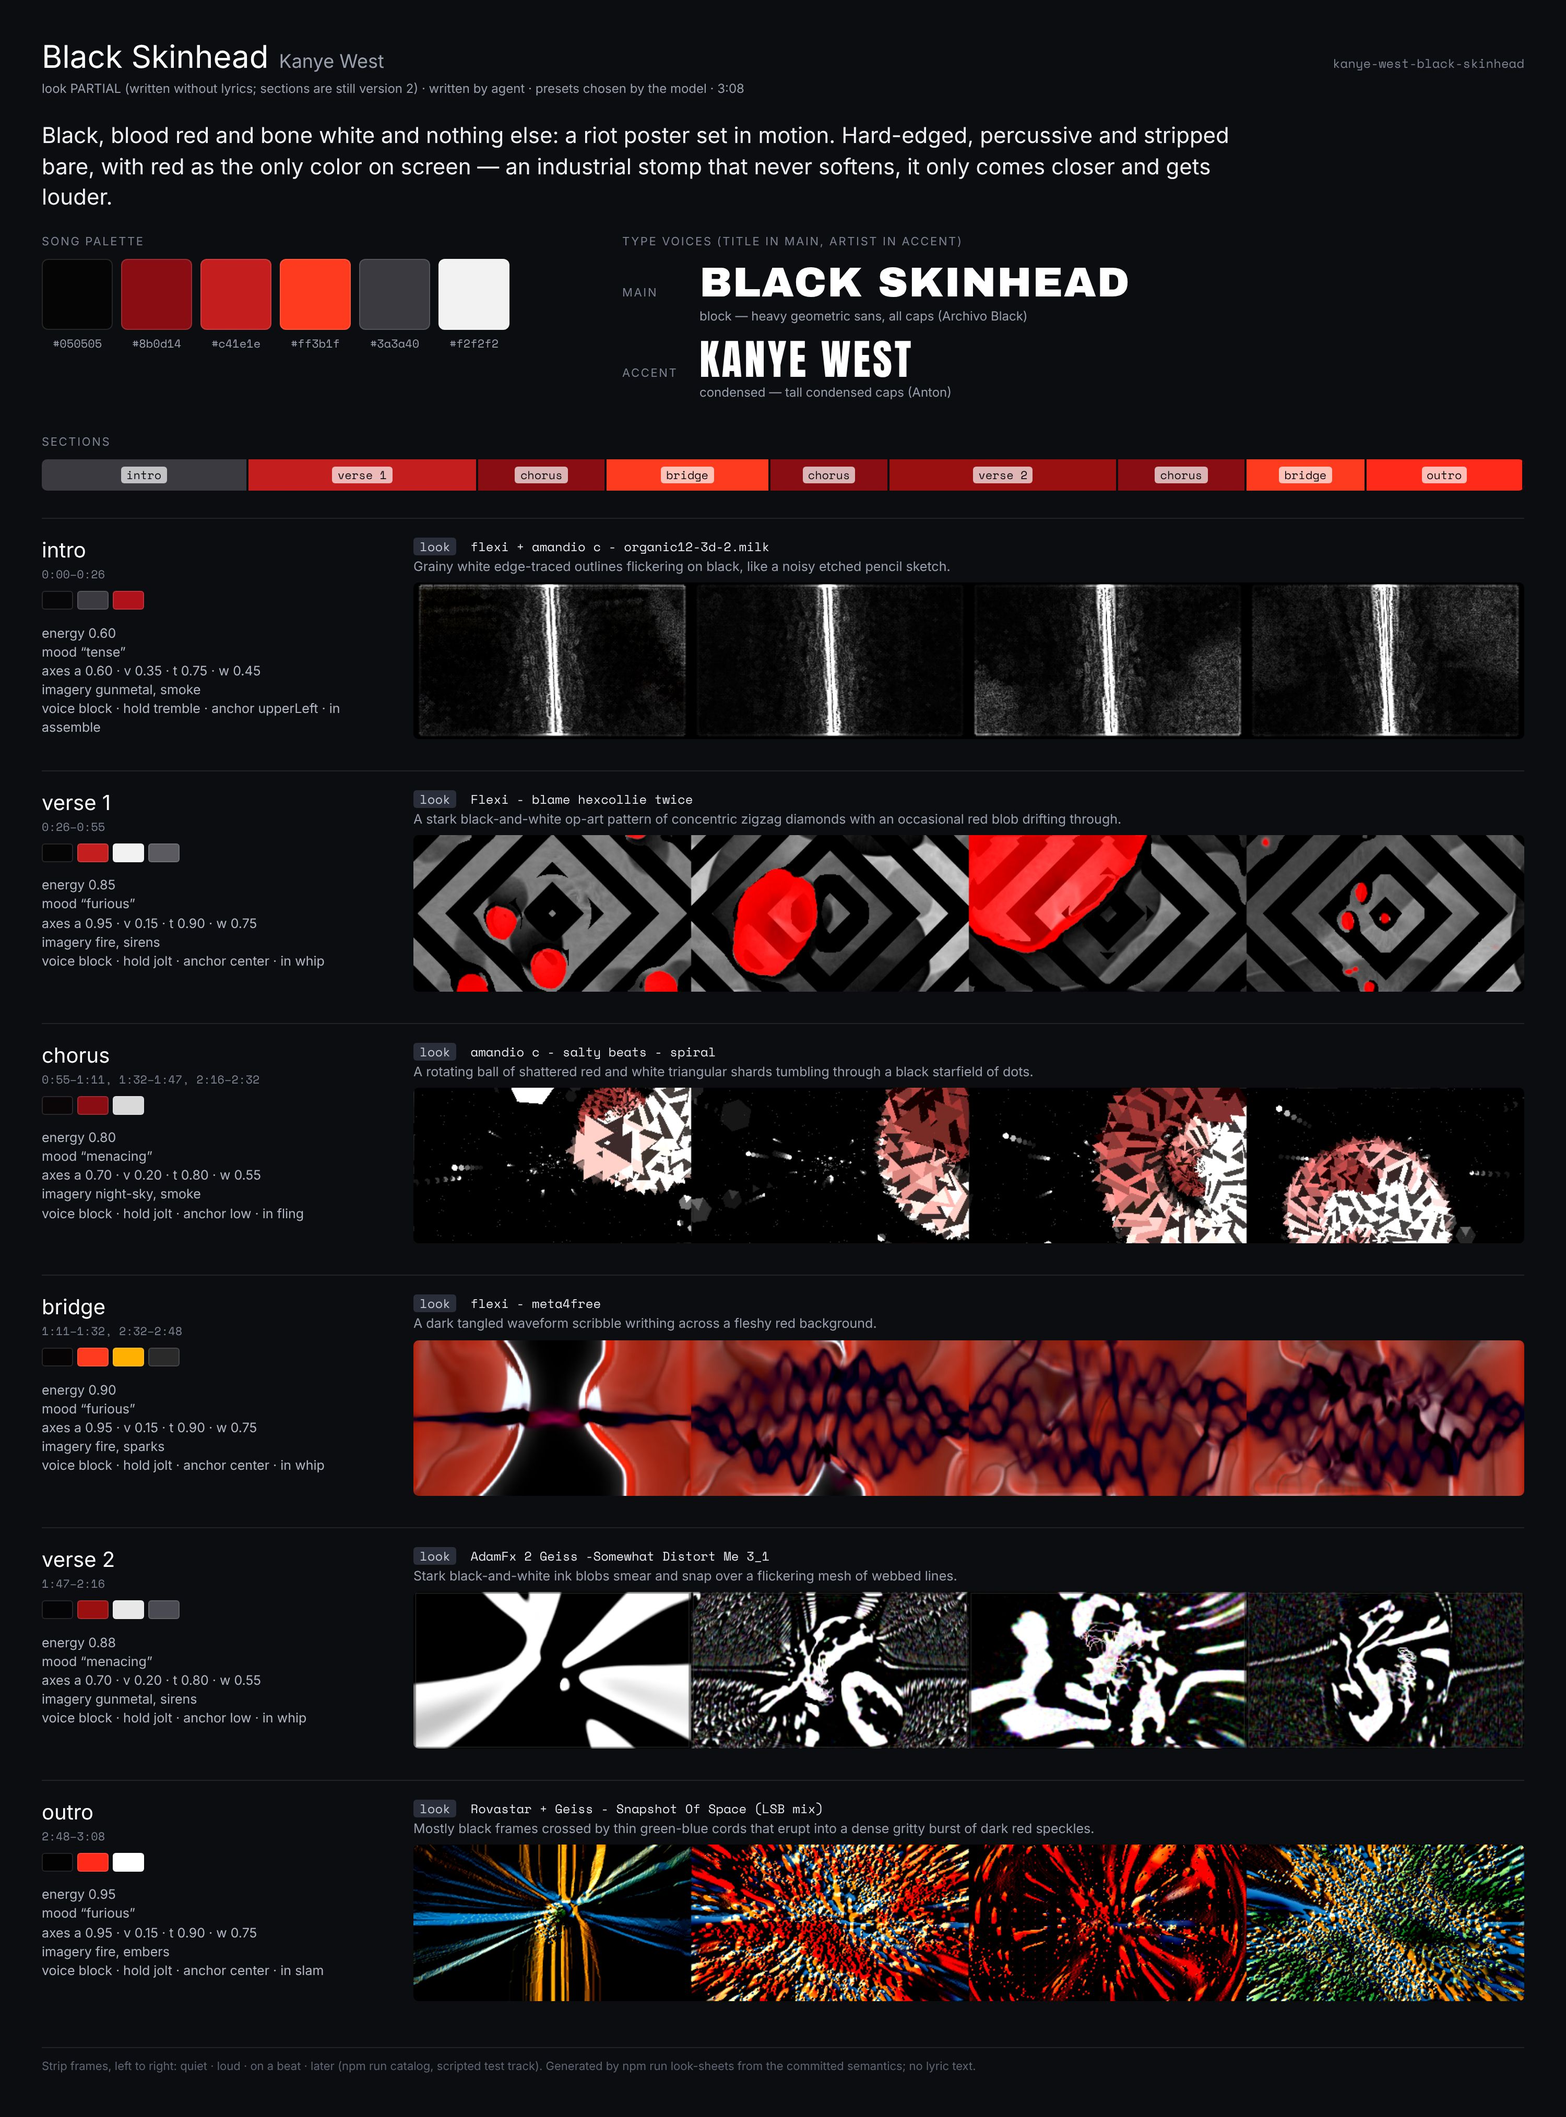
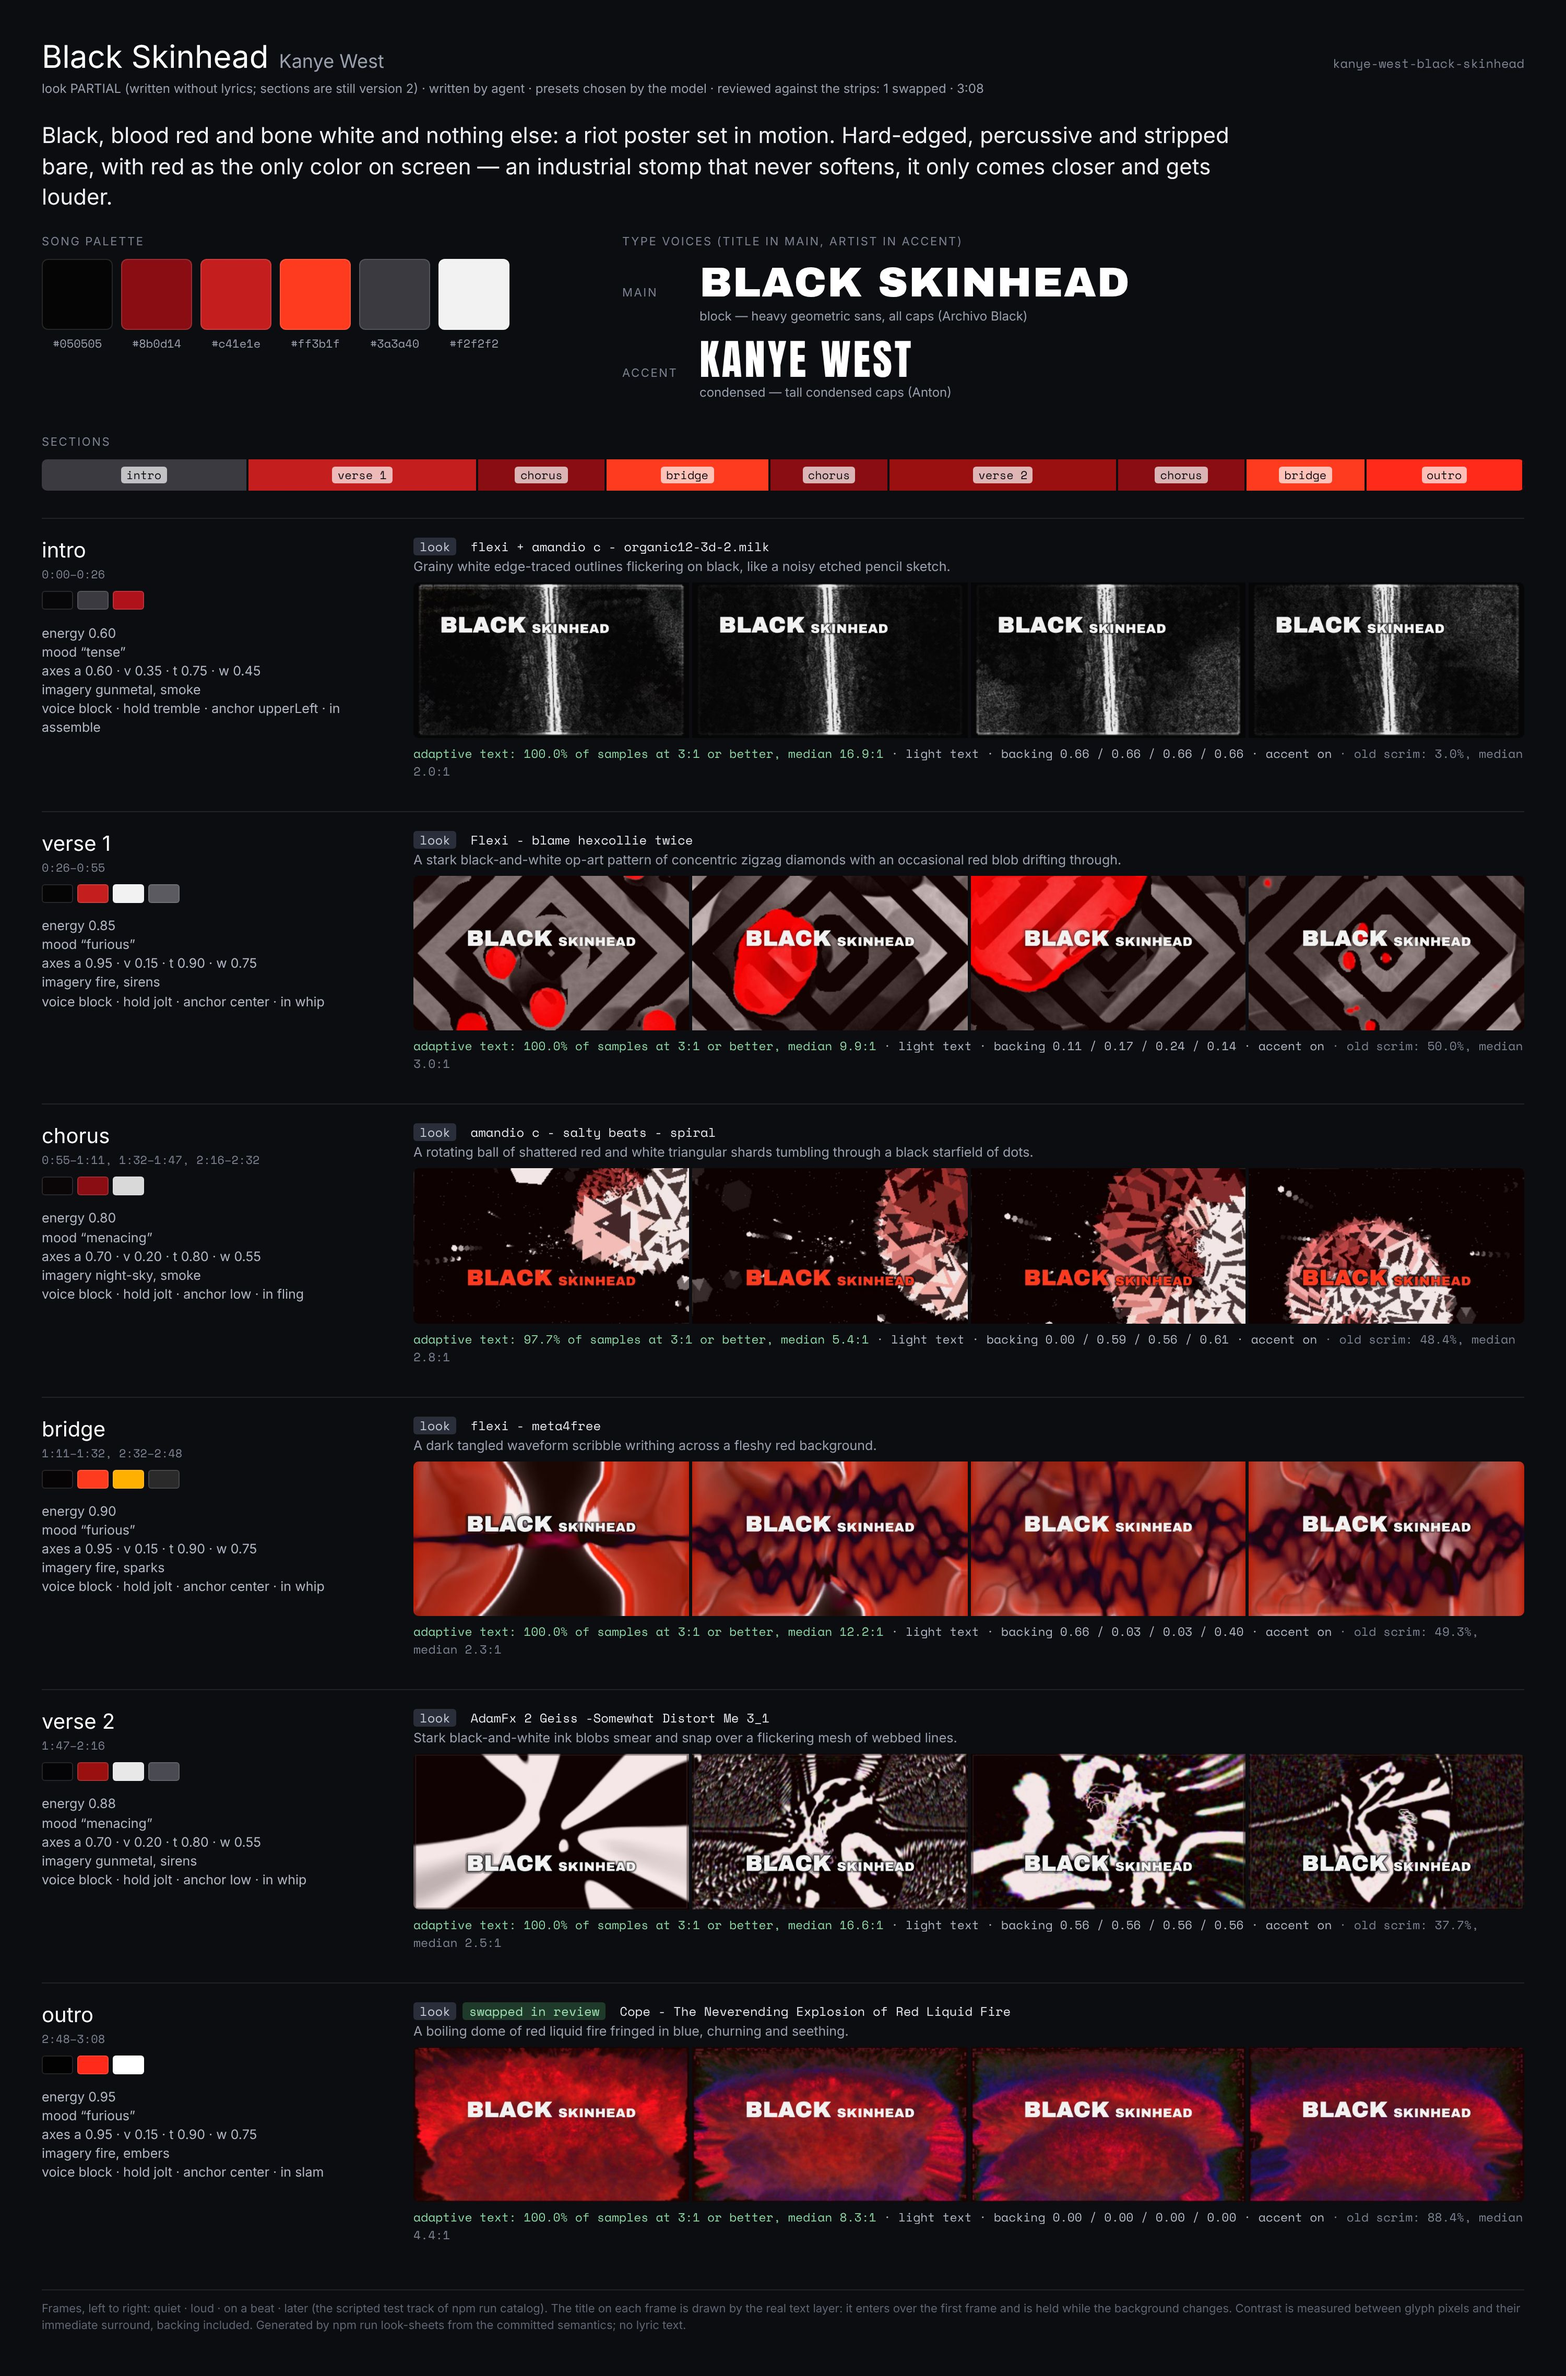
Review the six looks against their strips: 12 of 41 presets swapped
Each song's chosen presets were looked at next to its look, one song at
a time, through the same review code add-song runs. Misfits were
replaced from alternatives whose strips were also looked at; Catch Me
Outside 2 needed none. Sections and lines are untouched; the looks stay
partial because LRCLIB is still not reachable from this session.

review/ holds the regenerated contact sheets (the title drawn on every
frame by the real text layer, with the scene's measured contrast), the
look report and the per-scene readability table.

Claude-Session: https://claude.ai/code/session_015Sy9n8gNqieWfkgsP2n8t2

diff --git a/review/README.md b/review/README.md
@@ -5,17 +5,22 @@ read by the app.
 
 - `<slug>.jpg` — one contact sheet per song (`npm run look-sheets`): the
   look description, the song palette, the two type voices in their own
-  faces, and for each section label the 4-frame strip of the preset the
-  look chose (quiet · loud · on a beat · later). Where one of your saved
-  choices plays instead, it is shown underneath.
+  faces, and for each section label the four frames of its preset
+  (quiet · loud · on a beat · later). On every frame the song title is
+  drawn by the real text layer with its readability treatment, and the
+  scene's measured contrast is printed under the frames: adaptive text
+  against the old scrim. Presets the image review swapped in are marked.
 - `look-report.txt` — `npm run look-report -- --before 7a7f4df`: the
   library before and after it had looks.
+- `readability.txt` — the per-song, per-scene table `npm run shots`
+  prints: the share of contrast samples at 3:1 or better and the median
+  ratio, old scrim against adaptive text.
 
-The strips come from `npm run catalog` (gitignored `catalog-strips/`),
-so regenerate those first on a machine that has never run it. The sheets
-and the report carry no lyric text.
+The frames come from `npm run catalog` (gitignored `catalog-strips/`)
+when the strips are on disk, and are rendered on the spot otherwise. The
+sheets and the reports carry no lyric text.
 
 The six looks in this folder are **partial**: they were written without
-the lyrics, from each song's title, artist and existing sections, and
-the presets were chosen from the catalog's text descriptions alone. The
-sheets are where to check those choices against the pixels.
+the lyrics, from each song's title, artist and existing sections. Their
+presets were first chosen from the catalog's text descriptions and then
+reviewed against the strips (12 of 41 were swapped).
